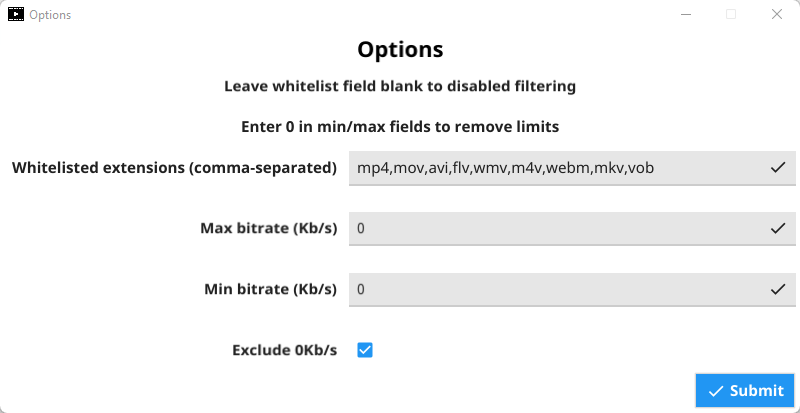
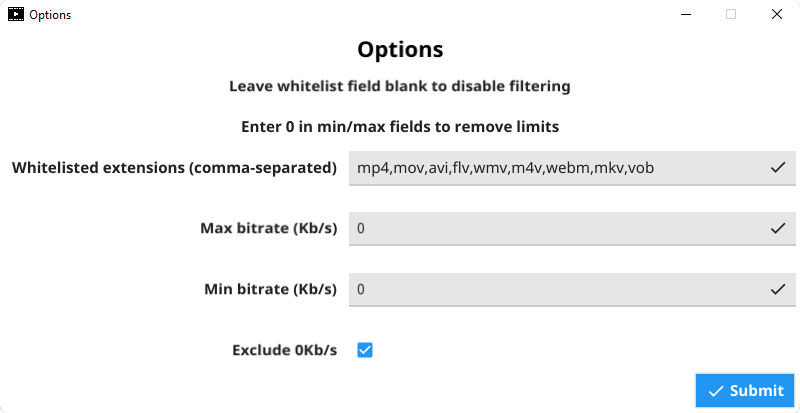
Fixed typo

Changed region(s): [[0.2812, 0.1743, 0.7188, 0.2324], [0.0312, 0.0291, 0.0938, 0.0581]]

diff --git a/options/options.go b/options/options.go
@@ -62,7 +62,7 @@ func ShowOptions(app fyne.App) {
 	// create main layout with additional information label
 	content := container.NewVBox(
 		title,
-		widget.NewLabelWithStyle("Leave whitelist field blank to disabled filtering", fyne.TextAlignCenter, fyne.TextStyle{Bold: true}),
+		widget.NewLabelWithStyle("Leave whitelist field blank to disable filtering", fyne.TextAlignCenter, fyne.TextStyle{Bold: true}),
 		widget.NewLabelWithStyle("Enter 0 in min/max fields to remove limits", fyne.TextAlignCenter, fyne.TextStyle{Bold: true}),
 		options,
 	)
